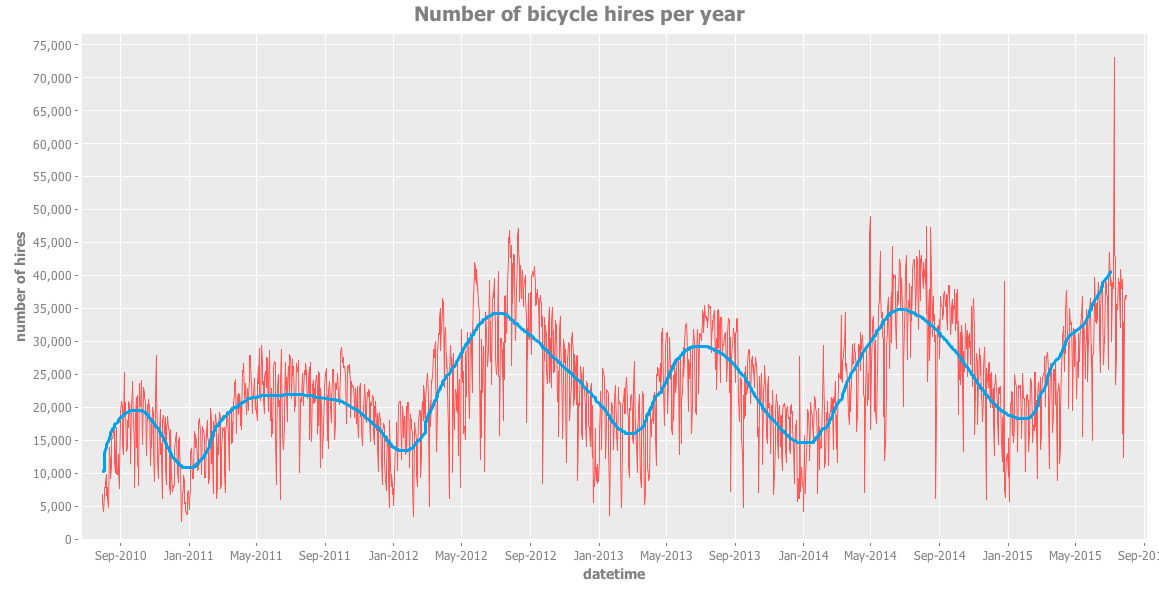
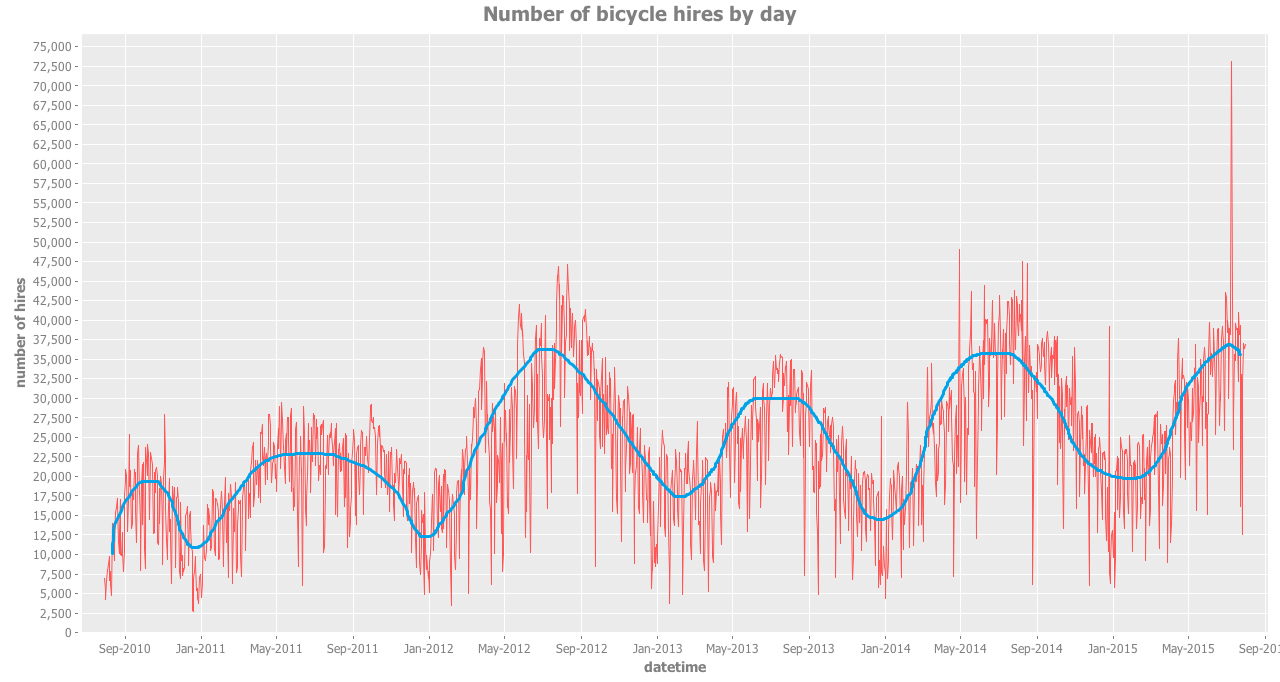
Update london cycle entry

diff --git a/_posts/2015-08-13-london-cycle-hire-stats.md b/_posts/2015-08-13-london-cycle-hire-stats.md
@@ -34,7 +34,7 @@ slight drop from 2012 to 2013.
 *Note: data from 2010 and 2015 ommitted as they are incomplete*
 
 Aside from that, the signal obtained from this data seems like random fluctuations / 
-noise that does not exhibit any particular pattern (aside from a very large peak 
+noise that does not exhibit any interesting local patterns (aside from a very large peak 
 in July 2015). Hence, let's try deriving some secondary data!
 
 # Secondary Data
@@ -43,14 +43,14 @@ I have calculated the proportion of hires in a day-of-week (eg: Monday, Tuesday)
 For example, if there are a total of 100 bicycle hires at the week starting 5 July 
 2010 and there are 20 hires on Monday, the value of Monday for the week 
 starting 5 July 2010 will be assigned a value of 0.20. In case you still do not
-understand what proportion in our contxt mean, please refer the [appendix](#appendix).
+understand what proportion in our context mean, please refer the [appendix](#appendix).
 
-Interestingly, this simple data transformation seems to present some additional
-information to us:
+Interestingly, this simple data transformation seems to present us some additional
+information:
 
 <div class="full zoomable"><img src="/images/london-cycle-hire/by-day.png"></div>
 
-Here are the average proportions over the proportions obtained from the last 5 years:
+Here are the _average proportions_ by _day of week_  over the last 5 years:
 
 * Sunday  **0.1115**
 * Monday  **0.14389**
@@ -63,25 +63,22 @@ Here are the average proportions over the proportions obtained from the last 5 y
 The average proportion of hires on weekends (0.116725) is 
 noticable lower than (0.1533), a difference of approximately 27%.
 
-The following is the varience and average deviation (note, not standard deviation)
-of the above entries:
+The following is the varience and average deviation (note, not standard deviation to
+prevent numerical problems) of the above entries:
 
-* Sunday , 0.0010001 , 0.02439 
-* Monday , 0.0006385 , 0.01820
-* Tuesday , 0.0005254 , 0.01585
-* Wednesday , 0.0005739 , 0.01546
-* Thursday , 0.0006224 , 0.01662
-* Friday , 0.0005045 , 0.01686
-* Saturday , 0.0008424 , 0.02288
+* Sunday , **0.0010001** , **0.02439** 
+* Monday , **0.0006385** , **0.01820**
+* Tuesday , **0.0005254** , **0.01585**
+* Wednesday , **0.0005739** , **0.01546**
+* Thursday , **0.0006224** , **0.01662**
+* Friday , **0.0005045** , **0.01686**
+* Saturday , **0.0008424** , **0.02288**
 
 The varience in proportion of hires on weekends (0.00092127) is
 much higher than those of weekdays (0.0005730) 46.61%.
 
-Of course (mind the slight bias here), averages are not entirely exciting. 
-Here's a graph to introduce some spice to these averages.
-
-The graph below shows 7 lines, each representing a day of the week. To give you a
-rough context on what the line chart means, 
+Over the course of 260 weeks, there are approximately 13 significant peaks / statistical
+outliers. I will leave finding them a challenge for the readers.
 
 ## Interpreting the Statistics 
 
@@ -91,7 +88,8 @@ above.
 Based on the timeseries graph above, Londoners prefer not to cycle when the 
 **weather** is cold, especially during winter. 
 
-The number of cyclists over the course of 4 years (2011 - 2014) is gradually increasing. The slight drop in 2013 might be due to air pollitions problems (ref: [airqualitynews](http://www.airqualitynews.com/2013/01/11/london-areas-already-exceeding-2013-legal-air-pollution-limits/) ). However, the small size of data refrains us from making any reliable conclusions.
+The number of cyclists over the course of 4 years (2011 - 2014) is gradually increasing. 
+The slight drop in 2013 might be due to air pollitions problems (ref: [airqualitynews](http://www.airqualitynews.com/2013/01/11/london-areas-already-exceeding-2013-legal-air-pollution-limits/) ). However, the small size of data refrains us from making any reliable conclusions.
 
 <div class="full zoomable"><img src="/images/london-cycle-hire/basic-time-series-concave.png"></div>
 
@@ -133,21 +131,23 @@ taking longer tube routes than cycle when the winter approaches.
 
 ## Conclusion?
 
-From interpreting the data:
+From interpreting the data, with some biased subjective opinions: (In the order of significance)
 
-The significant factors are:
+Londoners cycle primarily when:
 
-* Weather ( causes a upwards / downwards trend )
-* Tube strikes ( causes sudden peaks )
+* **Tube strikes** ( causes sudden peaks in the proportion graph )
+* They need to get to **work** ( more cycle hires on weekdays than weekends )
 
-Other factors:
+Londoners adjust their cycling schedules based on the **weather**, prefering not to
+cycle during winter. ( more cycle hires on summer than winter )
 
-* Scheduled closures ( causes a small peak )
-* Holidays ( Prefer not to cycle )
-* Non-recurring visits ( causes a rather unpredictable cycle-hiring schedule on weekends )
+Londoners prefer not to cycle during holidays. Occasionally (inpredictable how often), Londoners 
+prefer to hire cycle for **non-recurring visits**. ( the higher average deviation during weekends )
 
-It is quite fun how such simple data and data transformation methods can 
-give us insights on the city!
+Londoners will prefer to cycle during a **scheduled closures**, but the effect
+is much less significant than tube strikes. ( trends in christmas and new year )
+
+_At least this is what I think_
 
 <div id="appendix"></div>
 ## Appendix: Understanding the Week Proportion Transformation
